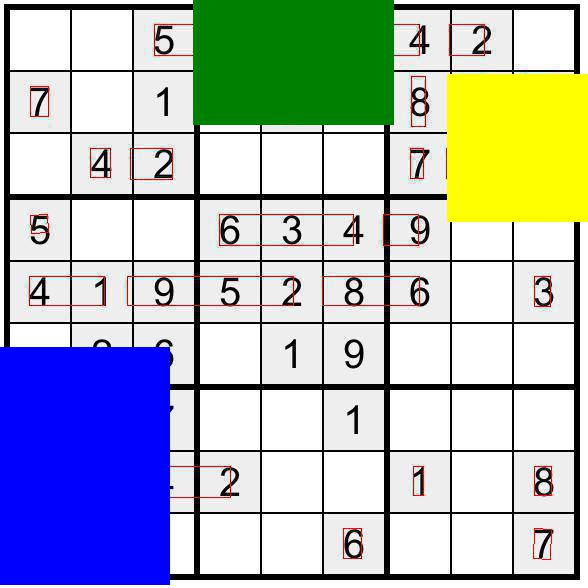
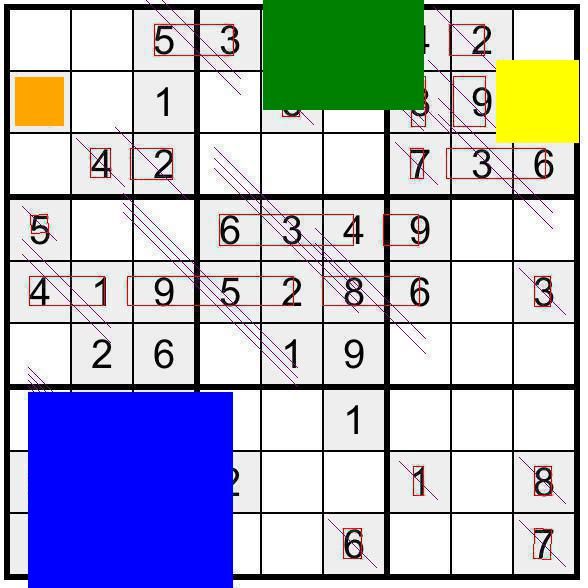
Fix some things.

diff --git a/json_to_sudoku.py b/json_to_sudoku.py
@@ -6,20 +6,30 @@ from PIL import Image, ImageDraw
 class Collider(object):
 
     def __init__(self, x1, y1, x2, y2):
-        self.HALF_AVG_SIZE = ((x2 - x1) + (y2 - y1)) / 2
         self.xMid = (x2 - x1) / 2 + x1
         self.yMid = (y2 - y1) / 2 + y1
 
-        self.x1 = self.xMid - self.HALF_AVG_SIZE
-        self.x2 = self.xMid + self.HALF_AVG_SIZE
-        self.y1 = self.yMid - self.HALF_AVG_SIZE
-        self.y2 = self.yMid + self.HALF_AVG_SIZE
-        print('collider', x1, y1, x2, y2, ',', self.HALF_AVG_SIZE, self.xMid, self.yMid, ',', self.x1, self.x2, self.y1, self.y2)
+        self.x1 = x1
+        self.x2 = x2
+        self.y1 = y1
+        self.y2 = y2
+        print('collider', x1, y1, x2, y2, ',', self.xMid, self.yMid, ',', self.x1, self.x2, self.y1, self.y2)
 
     def checkCollision(self, col):
         xCol = (self.x1 >= col.x1 and self.x1 <= col.x2) or (self.x2 >= col.x1 and self.x2 <= col.x2)
         yCol = (self.y1 >= col.y1 and self.y1 <= col.y2) or (self.y2 >= col.y1 and self.y2 <= col.y2)
         return xCol and yCol
+
+    def resize(self):
+        self.HALF_AVG_SIZE = ((self.x2 - self.x1) + (self.y2 - self.y1)) / 2
+        self.xMid = (self.x2 - self.x1) / 2 + self.x1
+        self.yMid = (self.y2 - self.y1) / 2 + self.y1
+
+        self.x1 = self.xMid - self.HALF_AVG_SIZE
+        self.x2 = self.xMid + self.HALF_AVG_SIZE
+        self.y1 = self.yMid - self.HALF_AVG_SIZE
+        self.y2 = self.yMid + self.HALF_AVG_SIZE
+
 
 def doOCR(content):
     # Imports the Google Cloud client library
@@ -84,6 +94,18 @@ def findSpacesBetweenVert(col1, col2):
         spaces += 1
     return spaces
 
+def drawBounds2(image_file, vects):
+    im = Image.open(image_file)
+
+    draw = ImageDraw.Draw(im)
+
+    draw.polygon([
+        vects[1].x1, vects[1].y1,
+        vects[1].x2, vects[1].y2,
+        ], None, 'purple')
+
+    im.save('./debug.jpg', 'JPEG')
+
 def drawBounds(image_file, vects):
     im = Image.open(image_file)
 
@@ -125,9 +147,9 @@ def runDudoku():
                 if ("\n" in annotations.__getitem__(i).description):
                     continue
                 vertices = annotations.__getitem__(i).bounding_poly.vertices
-                print(annotations.__getitem__(i).description, vertices[0].x, vertices[0].y, vertices[1].x, vertices[1].y)
+                print(annotations.__getitem__(i).description, vertices[0].x, vertices[0].y, vertices[2].x, vertices[2].y)
                 drawBounds('./debug.jpg', vertices)
-                col = Collider(vertices[0].x, vertices[0].y, vertices[1].x, vertices[1].y)
+                col = Collider(vertices[0].x, vertices[0].y, vertices[2].x, vertices[2].y)
                 littleSquares.append((annotations.__getitem__(i).description, col))
 
             # Test data to make sure it only considers the digits
@@ -148,13 +170,19 @@ def runDudoku():
                 if (len(littleSquares[i][0]) > 1):
                     strlen = len(littleSquares[i][0])
                     # If it is heading right
+                    print('wut?!',
+                          littleSquares[i][1].x2, littleSquares[i][1].x1, littleSquares[i][1].y2, littleSquares[i][1].y1, 'wut moar', littleSquares[i][1].x2 - littleSquares[i][1].x1, littleSquares[i][1].y2 - littleSquares[i][1].y1)
                     if (littleSquares[i][1].x2 - littleSquares[i][1].x1 > littleSquares[i][1].y2 - littleSquares[i][1].y1):
                         ySize = littleSquares[i][1].y2 - littleSquares[i][1].y1
-                        ySizePer = (1.0) * ySize / strlen
+                        ySizePer = ySize // strlen
+                        print('isit', littleSquares[i][1].y2, littleSquares[i][1].y1, ySize, strlen, ySizePer)
 
                         # Set the initial box then iterate to adjust the rest
                         for y in range(1, strlen):
                             # Set bounds and character
+
+                            print('THERE', ySize, strlen, ySizePer, littleSquares[i][1].y1)
+
                             col = Collider(littleSquares[i][1].x1, littleSquares[i][1].y1 + ySizePer * y + 1, littleSquares[i][1].x2, littleSquares[i][1].y1 + ySizePer * (y + 1) + 1)
                             appendToLittleSquares.append((littleSquares[i][0][y], col))
                         rmFromLittleSquares.append(littleSquares[i])
@@ -163,13 +191,14 @@ def runDudoku():
                     # If it is heading down
                     else:
                         xSize = littleSquares[i][1].x2 - littleSquares[i][1].x1
-                        xSizePer = (1.0) * xSize / strlen
+                        xSizePer = xSize // strlen
 
                         # Set the initial box then iterate to adjust the rest
                         littleSquares[i][1].x2 = littleSquares[i][1].x1 + xSizePer
                         for x in range(1, strlen):
                             # Set bounds and character
                             print('HERE', xSize, strlen, xSizePer, littleSquares[i][1].y1)
+
                             col = Collider(littleSquares[i][1].x1 + xSizePer * x + 1, littleSquares[i][1].y1, littleSquares[i][1].x1 + xSizePer * (x + 1) + 1, littleSquares[i][1].y2)
                             appendToLittleSquares.append((littleSquares[i][0][x], col))
                         rmFromLittleSquares.append(littleSquares[i])
@@ -178,8 +207,23 @@ def runDudoku():
                         appendToLittleSquares.append((littleSquares[i][0][0], col))
             for i in range(len(appendToLittleSquares)):
                 littleSquares.append(appendToLittleSquares[i])
+
             for i in range(len(rmFromLittleSquares)):
                 littleSquares.remove(rmFromLittleSquares[i])
+
+            for i in range(len(littleSquares)):
+                littleSquares[i][1].resize()
+
+                im = Image.open('./debug.jpg')
+
+                draw = ImageDraw.Draw(im)
+
+                draw.rectangle([
+                    littleSquares[i][1].x1, littleSquares[i][1].y1,
+                    littleSquares[i][1].x2, littleSquares[i][1].y2
+                ], 'brown')
+
+                im.save('./debug'+ str(i) +'.jpg', 'JPEG')
 
             # Sort the data by rows and then columns
             sortedSquares = []
@@ -199,6 +243,7 @@ def runDudoku():
             # All data thus far
             print("What survived the purge:")
             for i in range(len(sortedSquares)):
+                drawBounds2('./debug.jpg', sortedSquares[i])
                 print(sortedSquares[i])
 
             # Track smallest and largest entry in x and y
